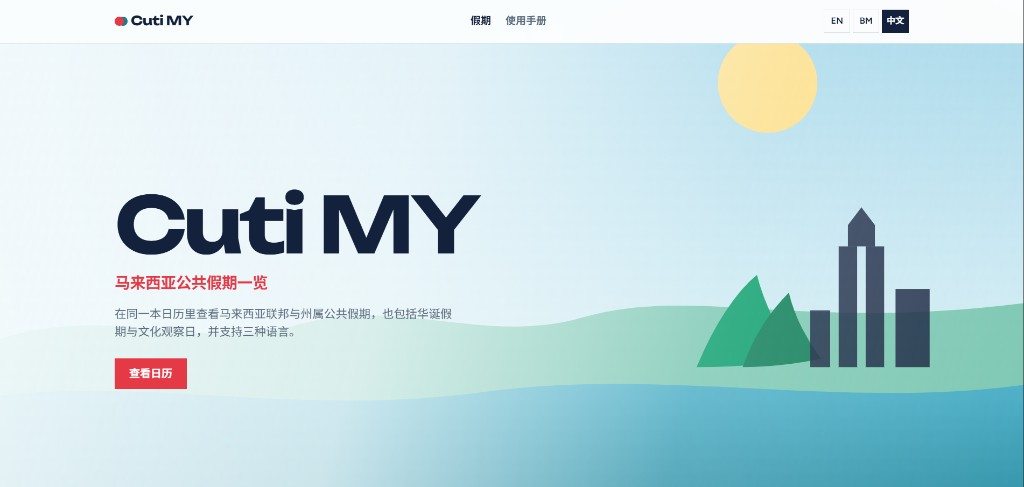
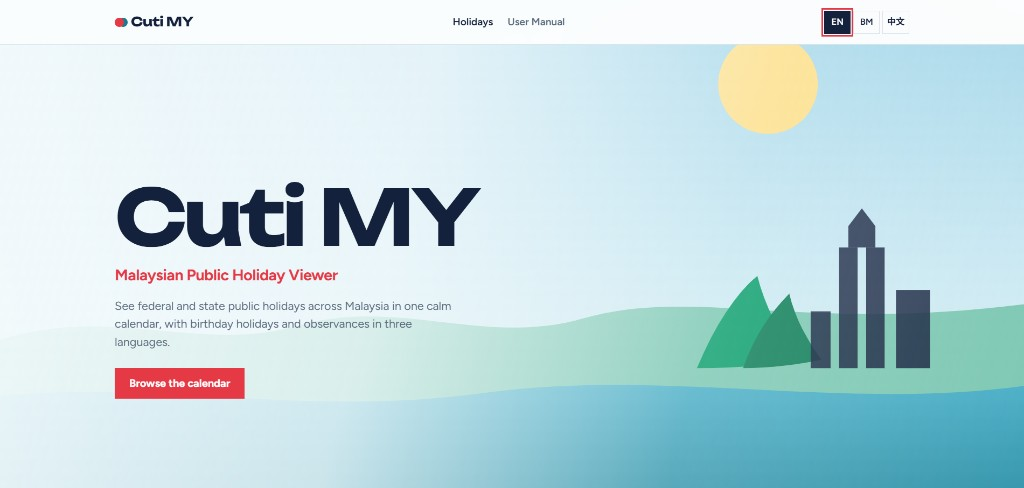
first commit

diff --git a/config/db.example.php b/config/db.example.php
@@ -1,10 +1,9 @@
 <?php
 /**
- * Cuti MY – database configuration
+ * Cuti MY – database configuration (example)
  *
- * Update these four values to match your MySQL / MariaDB account.
- * On shared hosting (iFastNet / cPanel), use the database name, username
- * and password shown in cPanel → MySQL Databases.
+ * Copy this file to db.php and fill in your credentials:
+ *   copy config/db.example.php config/db.php
  */
 
 $host = 'localhost';

diff --git a/README.md b/README.md
@@ -5,7 +5,7 @@ Browse federal, state, birthday and observance holidays in Malaysia — calendar
 ## Quick start (XAMPP)
 
 1. Place the project in `C:\xampp\htdocs\project\holiday_system`
-2. Edit `config/db.php` with your database credentials
+2. Copy `config/db.example.php` to `config/db.php` and fill in your database credentials
 3. Start **Apache** and **MySQL** in XAMPP
 4. Create a MySQL database named `cuti_my` (charset `utf8mb4`) in phpMyAdmin
 5. Open http://localhost/project/holiday_system/install.php
@@ -20,6 +20,12 @@ Typical local database values:
 | Database | `cuti_my` |
 | User | `root` |
 | Password | your MySQL password (often empty on default XAMPP) |
+
+```bash
+copy config\db.example.php config\db.php
+```
+
+Then edit `config/db.php`. Do not commit real passwords — `config/db.php` is listed in `.gitignore`.
 
 CLI install:
 
@@ -77,7 +83,8 @@ holiday_system/
 │   ├── js/                   app.js, i18n.js, manual.js
 │   └── img/                  Hero artwork
 ├── config/
-│   └── db.php                Database credentials
+│   ├── db.example.php        Example credentials (safe to commit)
+│   └── db.php                Local credentials (gitignored)
 ├── docs/
 │   └── screenshots/          README images
 ├── includes/
@@ -98,7 +105,7 @@ holiday_system/
 1. Copy the project to `C:\xampp\htdocs\project\holiday_system`
 2. Start **Apache** and **MySQL** in XAMPP
 3. Create database `cuti_my` (utf8mb4)
-4. Edit `config/db.php`:
+4. Copy `config/db.example.php` to `config/db.php` and edit:
 
 ```php
 $host = 'localhost';
@@ -106,6 +113,8 @@ $dbname = 'cuti_my';
 $username = 'root';
 $password = '';   // your MySQL password
 ```
+
+`config/db.php` is gitignored so real credentials stay local.
 
 5. Open: http://localhost/project/holiday_system/install.php
 6. After success, open: http://localhost/project/holiday_system/index.php
